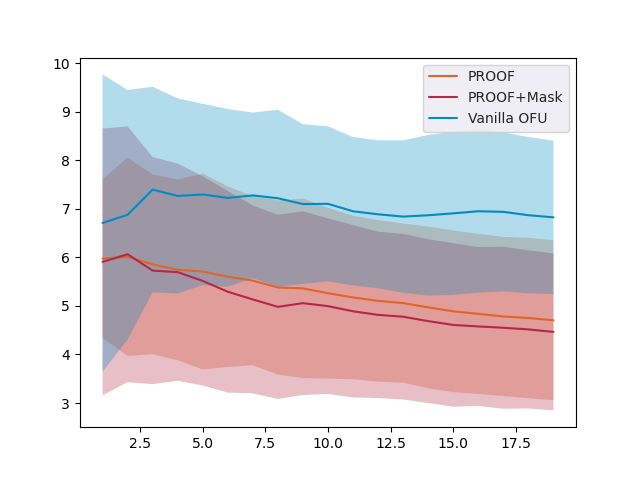
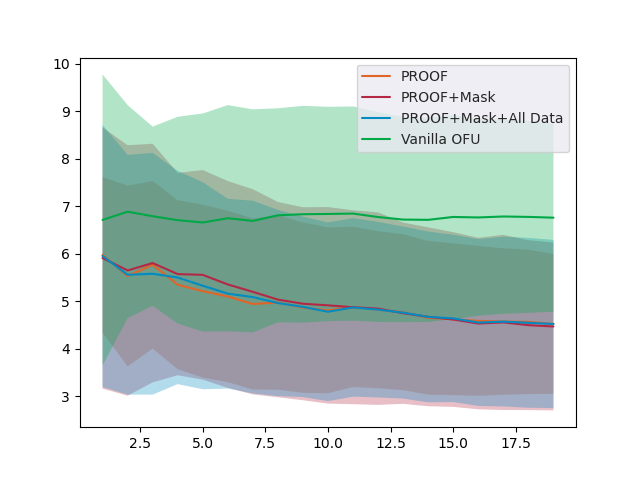
Updated mlp so we can train on all data points

diff --git a/train.py b/train.py
@@ -55,24 +55,29 @@ config = {'alias': 'mlp_factor8neg4_bz256_166432168_pretrain_reg_0.0000001',
               'std_task_attributes': [0.1],
               }
 
-# Matrices storing information on each epoch 
-regret_p2p = np.zeros((config['num_trial'], config['num_epoch']-1))
-regret_bandit = np.zeros((config['num_trial'], config['num_epoch']-1))
-regret_mask = np.zeros((config['num_trial'],config['num_epoch']-1))
-regret_match_p2p = np.zeros((config['num_trial'], config['num_epoch']-1))
-regret_match_bandit = np.zeros((config['num_trial'], config['num_epoch']-1))
-regret_match_mask = np.zeros((config['num_trial'],config['num_epoch']-1))
-time_p2p = np.zeros((config['num_trial'], config['num_epoch']-1))
-time_bandit = np.zeros((config['num_trial'], config['num_epoch']-1))
+def generate_array(config):
+    return np.zeros((config['num_trial'], config['num_epoch']-1))
 
-def run_one_round(engine,env,data_loader,test_feature,test_label,epoch,trial_idx,regret_matrix, match_matrix, best_match, best_reward):
+# Matrices storing information on each epoch 
+regret_p2p = generate_array(config)
+regret_bandit = generate_array(config)
+regret_mask = generate_array(config)
+regret_all_data = generate_array(config)
+
+regret_match_p2p = generate_array(config)
+regret_match_bandit = generate_array(config)
+regret_match_mask = generate_array(config)
+regret_match_all_data = generate_array(config)
+
+
+def run_one_round(engine,regret_matrix, match_matrix):
     action, _time = engine.p2p_an_epoch(data_loader, test_feature, epoch_id=epoch)
     matches = engine.get_matches(action,test_label,env._m)
     ro, rb = env.get_reward(action)
     match_reward = env.get_match_reward(matches)
     engine.update_bandit(ro,rb)
     regret_matrix[trial_idx, epoch-1] = (ro.sum()+rb.sum())-best_reward.sum()
-    match_matrix[trial_idx, epoch-1] = best_match - match_reward
+    match_matrix[trial_idx, epoch-1] = best_match_reward - match_reward
     
     return ro, rb, match_reward
 
@@ -80,8 +85,9 @@ for trial_idx in range(config['num_trial']):
     env = P2PEnvironment(config, seed=trial_idx * 10)
     engine_p2p = P2PEngine(env, config, pure_bandit=False, predict_mask=False)
     engine_mask = P2PEngine(env, config, pure_bandit=False, predict_mask=True)
-    engine_bandit = P2PEngine(env, config, pure_bandit=True, predict_mask=False)
-    
+    engine_all_data = P2PEngine(env, config, pure_bandit=False, predict_mask=True,use_all_data=True)
+    engine_bandit = P2PEngine(env, config, pure_bandit=True, predict_mask=False)   
+
     start_time = time()
     
     for epoch in range(1, config['num_epoch']):
@@ -94,9 +100,10 @@ for trial_idx in range(config['num_trial']):
         best_matches = engine_p2p.get_matches(best_action,test_label, env._m)
         best_match_reward = env.get_match_reward(best_matches)
         
-        ro_bandit, rb_bandit, match_bandit = run_one_round(engine_bandit,env,data_loader,test_feature,test_label,epoch,trial_idx, regret_bandit, regret_match_bandit, best_match_reward, best_reward)
-        ro_p2p, rb_p2p, match_p2p = run_one_round(engine_p2p,env,data_loader,test_feature,test_label,epoch, trial_idx, regret_p2p, regret_match_p2p, best_match_reward, best_reward)
-        ro_mask, rb_mask, match_mask = run_one_round(engine_mask,env,data_loader,test_feature,test_label,epoch, trial_idx, regret_mask, regret_match_mask, best_match_reward, best_reward)
+        run_one_round(engine_bandit, regret_bandit, regret_match_bandit)
+        run_one_round(engine_p2p, regret_p2p, regret_match_p2p)
+        run_one_round(engine_mask, regret_mask, regret_match_mask)
+        run_one_round(engine_all_data, regret_all_data, regret_match_all_data)
 
         env.add_to_data_loader()
 
@@ -120,12 +127,12 @@ sns.palplot(sns.color_palette(nbc_palette))
 
 file_name = 'figures/n{}m{}d{}ka{}eta{}eps{}iter{}alg{}FINAL{}.png'.format(config['points_per_iter'], config['feature_dim'], config['label_dim'],
 config['KA_norm'],config['eta'],config['epsilon'],config['learn_iter'],config['learning_alg'],config['num_trial'])
-data = [regret_p2p,regret_mask,regret_bandit]
-labels = ['PROOF', 'PROOF+Mask','Vanilla OFU']
+data = [regret_p2p,regret_mask,regret_all_data,regret_bandit]
+labels = ['PROOF', 'PROOF+Mask','PROOF+Mask+All Data','Vanilla OFU']
 plot_data(data,labels,file_name)
 
 file_name = 'figures/n{}m{}d{}ka{}eta{}eps{}iter{}alg{}FINAL{}_match.png'.format(config['points_per_iter'], config['feature_dim'], config['label_dim'],
 config['KA_norm'],config['eta'],config['epsilon'],config['learn_iter'],config['learning_alg'],config['num_trial'])
-data = [regret_match_p2p,regret_match_mask,regret_match_bandit]
-labels = ['PROOF', 'PROOF+Mask', 'Vanilla OFU']
+data = [regret_match_p2p,regret_match_mask,regret_match_all_data,regret_match_bandit]
+labels = ['PROOF', 'PROOF+Mask','PROOF+Mask+All Data','Vanilla OFU']
 plot_data(data,labels,file_name)

diff --git a/mlp.py b/mlp.py
@@ -11,10 +11,11 @@ from scipy.optimize import linear_sum_assignment
 
 
 class P2PEngine(object):
-    def __init__(self, env, config, pure_bandit,predict_mask):
+    def __init__(self, env, config, pure_bandit, predict_mask, use_all_data=False):
         self.config = config
         self.pure_bandit = pure_bandit
         self.predict_mask = predict_mask
+        self.use_all_data = use_all_data
         self.predictor = LinearRegression(fit_intercept=False, n_jobs=-1)
         self.mask_predictor = LinearRegression()
         
@@ -31,6 +32,11 @@ class P2PEngine(object):
         self.mu = env.mu
         self.w_known = np.zeros((self.n, self.d))
         self.volunteer_info = env.r
+        
+        self.all_x = []
+        self.all_x_tilde = []
+        self.all_y = []
+        self.all_r = []
 
     def p2p_an_epoch(self, data_loader, test_feature, epoch_id):
         """For each epoch, learn then optimize to figure out what the optimal value of w is
@@ -66,7 +72,17 @@ class P2PEngine(object):
         Side Effects: Re-fits our predictor function with all of the data_loader data points
         """
 
-        self.predictor.fit(data_loader.dataset.feature, data_loader.dataset.label)
+        if self.use_all_data:
+            if self.all_x == []:
+                self.all_x = data_loader.dataset.feature
+                self.all_y = data_loader.dataset.label
+            else:
+                self.all_x = np.concatenate([self.all_x,data_loader.dataset.feature])
+                self.all_y = np.concatenate([self.all_y,data_loader.dataset.label])
+            
+            self.predictor.fit(self.all_x, self.all_y)
+        else:
+            self.predictor.fit(data_loader.dataset.feature, data_loader.dataset.label)
         
     def format_mask_data(self,x,r):
         """Turn a matrix x (containing task data) and r, containing volunteer info, into
@@ -100,8 +116,18 @@ class P2PEngine(object):
         
         x = data_loader.dataset.feature
         formatted_data = self.format_mask_data(x,self.volunteer_info)
-                        
-        self.mask_predictor.fit(formatted_data,data_loader.dataset.mask)
+        
+        if self.use_all_data:
+            if self.all_x_tilde == []:
+                self.all_x_tilde = formatted_data
+                self.all_r = data_loader.dataset.mask
+            else:
+                self.all_x_tilde = np.concatenate([self.all_x_tilde,formatted_data])
+                self.all_r = np.concatenate([self.all_r,data_loader.dataset.mask])
+                
+            self.mask_predictor.fit(self.all_x_tilde,self.all_r)
+        else:            
+            self.mask_predictor.fit(formatted_data,data_loader.dataset.mask)
 
     def optimize(self, test_feature):
         """Run an optimization function for each data point in the epoch (n of them) 
